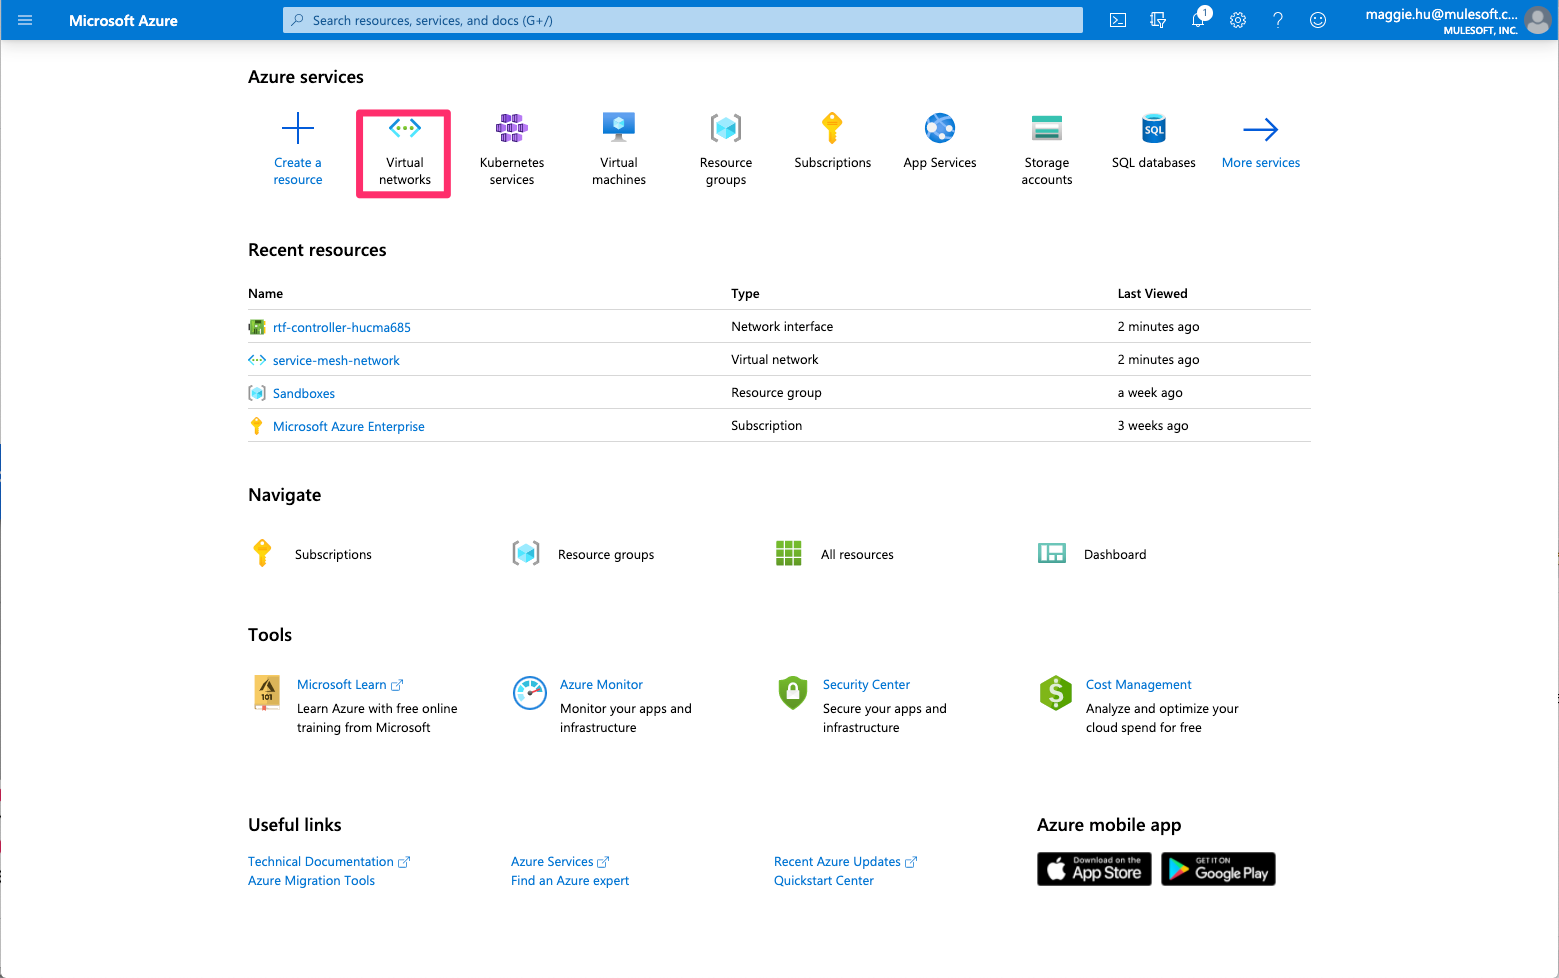
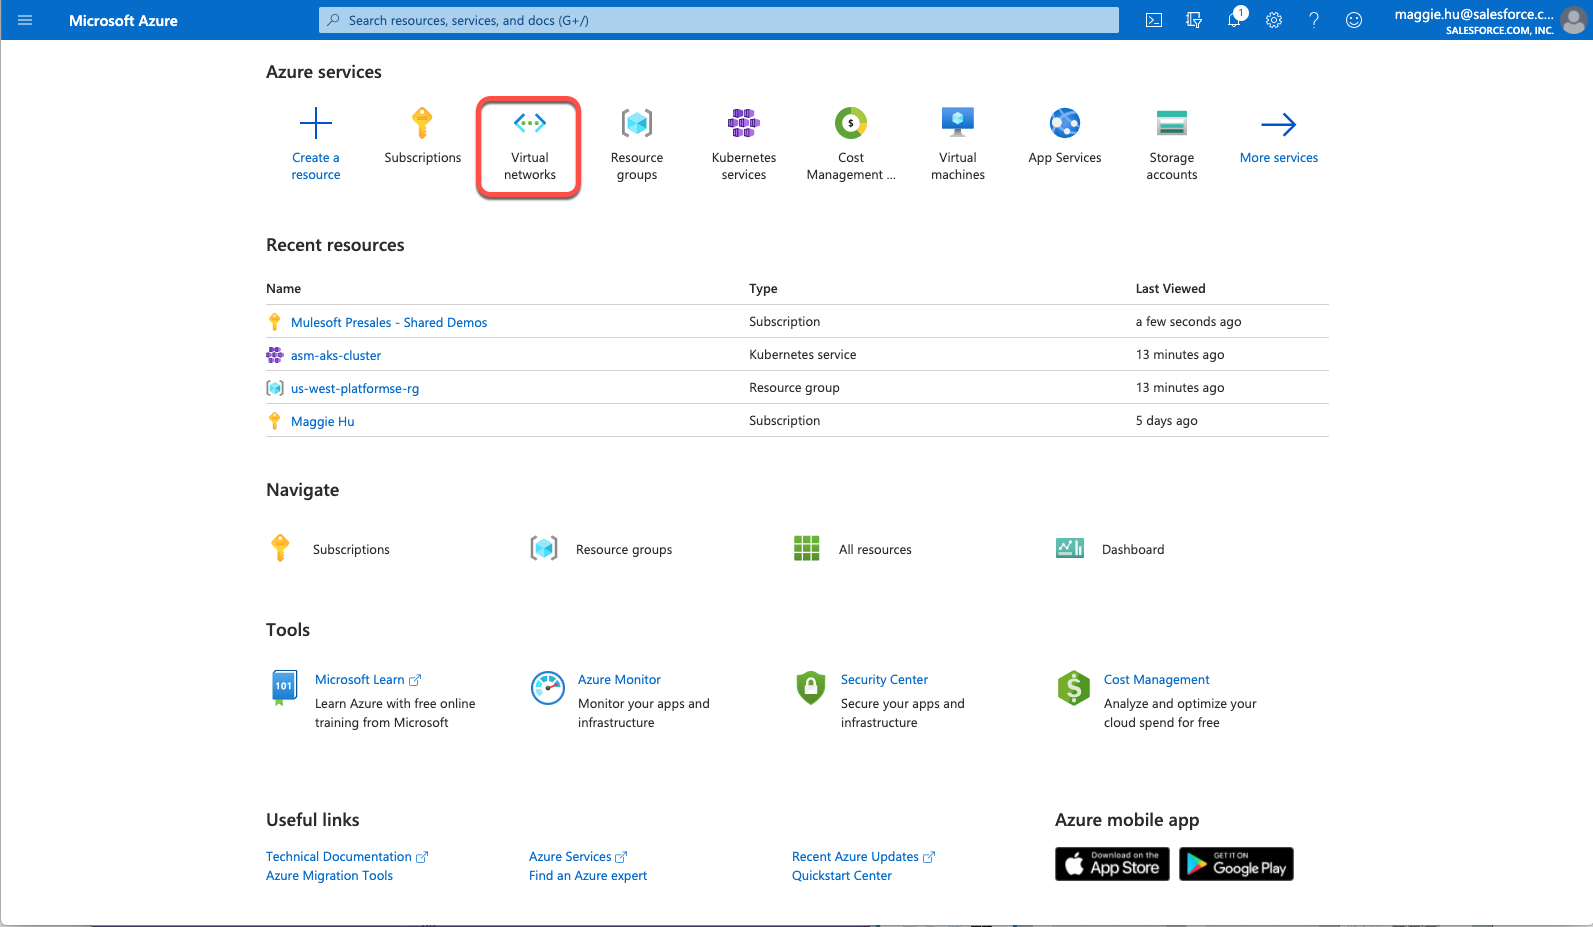
Updated STEP 1-3

diff --git a/README.md b/README.md
@@ -59,8 +59,10 @@ For complete instructions please visit [MuleSoft Documentation](https://docs.mul
 
 	![](images/image2.png)
 
-- Select **Resource Group**. Enter a unique **Name** for instance and select **Region** for Virtual Network creation.
+- Create a new **Resource Group**.
+    ![](images/image-azure-rg.png)
 
+- Select **Resource Group**. Enter a unique **Name** for instance and select **Region** for Virtual Network creation.
     ![](images/image3.png)
 
 - Select and remove the **default** subnet. Add a new subnet with more available IP addresses.
@@ -123,6 +125,8 @@ For complete instructions please visit [MuleSoft Documentation](https://docs.mul
 - Next running the following command to verify that you cluster is running.
 
 ```bash
+az account set --subscription 5fe30022-9d07-462a-9eba-41cd46f0981c
+az aks get-credentials --name asm-aks-cluster --resource-group asm-uswest-rg
 kubectl get namespaces
 ```
 
